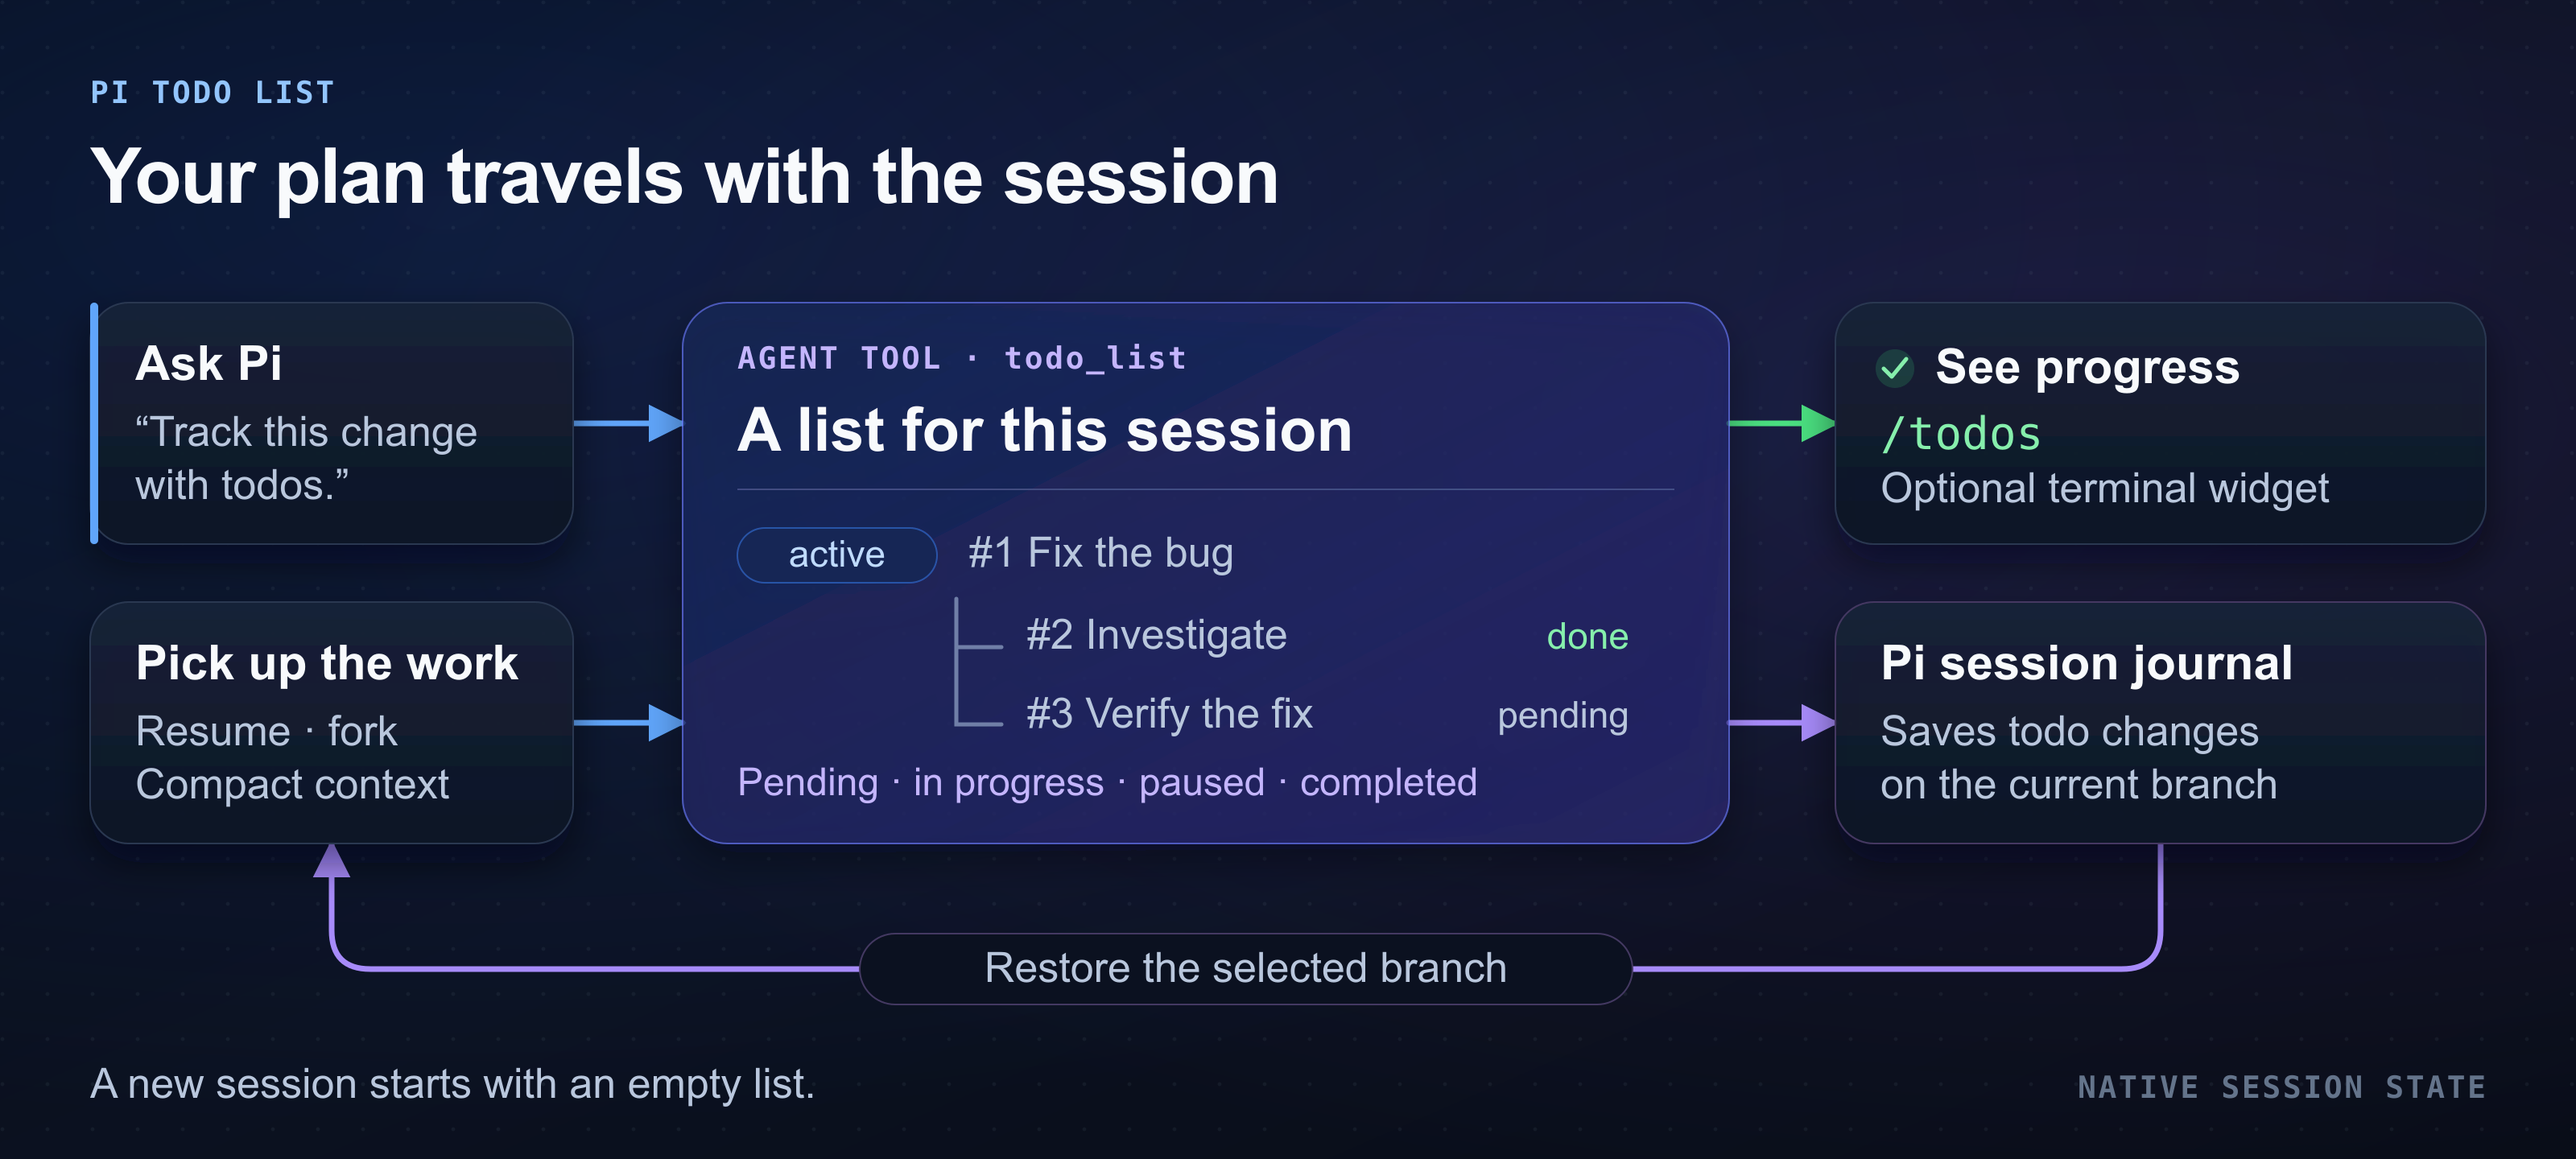
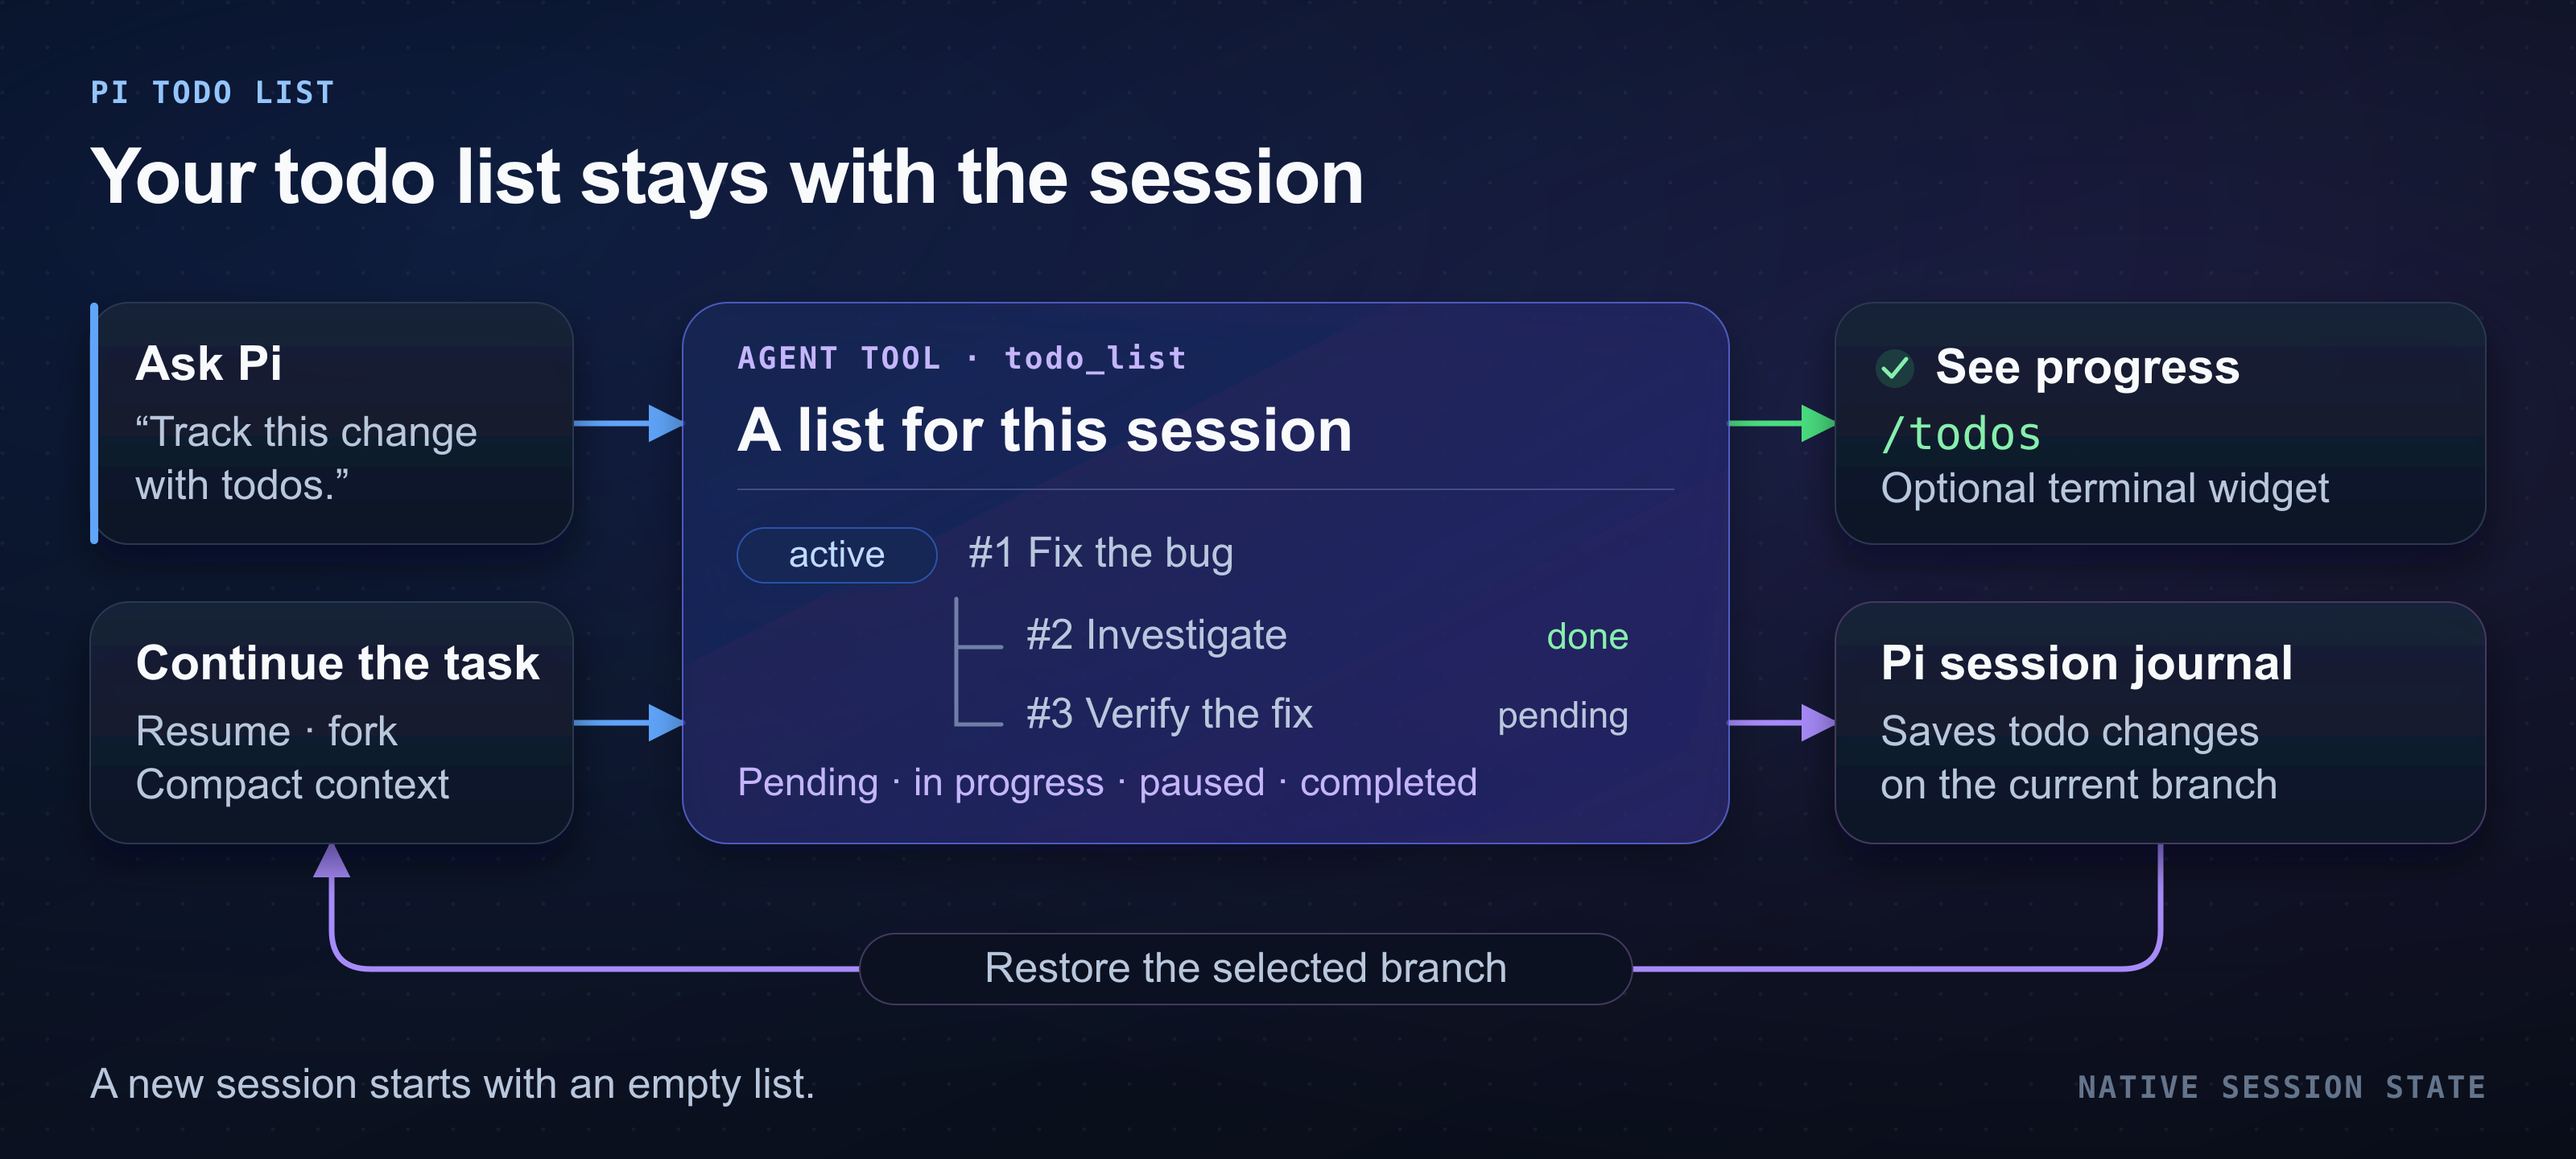
docs: simplify README instructions and descriptions (#44)

Changed region(s): [[0.0938, 0.125, 0.5312, 0.1875], [0.0312, 0.5625, 0.2188, 0.5938]]

diff --git a/README.md b/README.md
@@ -1,81 +1,77 @@
 # Pi Todo List
 
-Pi Todo List gives your [Pi](https://github.com/earendil-works/pi) agent a nested todo list for multi-step work. You can check what's left with `/todos` and return to the same list when you resume a session.
+Pi Todo List gives your [Pi](https://github.com/earendil-works/pi) agent a nested todo list. Use it to check task progress from the Pi terminal.
 
-![A request flows into a nested todo list in Pi. You can view it with /todos; changes are saved in Pi's session journal and restored when you resume, fork, or compact the session.](.github/readme/session-todos.png)
+![A Pi request updates a nested todo list. The /todos command shows the todo list. Pi saves changes in its session journal.](.github/readme/session-todos.png)
 
-*Your todo list is saved in Pi's session journal and restored with the session.*
+*Pi saves the todo list on the selected session branch.*
 
 ## Install and start
 
-You'll need Pi 1.0.0 or later (official releases or the maintained fork) and Node.js 24 or later.
+Use Pi 1.0.0 or later and Node.js 24 or later. Official Pi releases and the maintained fork both support this extension.
 
 ```bash
 pi install git:github.com/fitchmultz/pi-todo-list
 pi
 ```
 
-Ask Pi to use the list:
+Ask Pi to track a task:
 
-> Track this change with todos: investigate the bug, implement a fix, and verify it.
+> Use todo_list to track this task and its subtasks.
 
-Type `/todos` to see the open work or `/todos show` to keep a small progress widget visible. The [terminal controls](#check-progress) are below; the [tool reference](docs/reference.md) covers batches and other details.
+Type `/todos` to check progress. Read the [tool reference](docs/reference.md) for actions and batch examples.
 
-## Working with the list
+## Terminal controls
 
-Ask Pi to break a task into subtasks. Each item can be pending, in progress, paused, or completed. Pi updates them through its `todo_list` tool as it works.
-
-You can attach a URL or note/file path to an item without putting all the detail in its title. The list shows `[details]`; `/todos <id>` reveals the link. The extension stores the link without opening it.
-
-## Check progress
-
-These commands run in Pi's interactive terminal:
-
-| Command | What you see |
+| Command | Result |
 | --- | --- |
-| `/todos` | The first page of open items, plus status counts |
-| `/todos 3` | Item #3's status, parent, and detail link, even if completed |
-| `/todos all` | Open and completed items, up to 100 rows |
-| `/todos show` | A widget showing up to eight open items |
+| `/todos` | Open todo items and status counts, up to 100 rows |
+| `/todos 3` | Item #3's status, parent, and detail link, even when completed |
+| `/todos all` | Open and completed todo items, up to 100 rows |
+| `/todos show` | Show the widget, with up to eight open todo items |
 | `/todos hide` | Hide the widget |
-| `/todos toggle` | Switch the widget on or off |
+| `/todos toggle` | Switch widget visibility |
 
-The widget starts hidden. The footer shows active and pending counts, plus paused work when present. To start each Pi process with the widget visible:
+Pi hides the widget at startup. For open todo items, the footer shows active and pending counts. It also shows paused counts when present.
+
+Run Pi with this setting to show the widget at startup:
 
 ```bash
 PI_TODO_WIDGET=show pi
 ```
 
-To change an item, tell the agent what you want:
+Ask Pi to change a todo item:
 
 > Pause item #3 until the API credentials are available.
->
-> Reopen item #2 and its subtasks.
 
-The agent's ordinary list omits completed items. Use `/todos all` to find an old item's ID and include that ID in your request.
+Use `/todos all` to find a completed item's ID. Include that ID when you ask Pi to reopen it.
 
-## How the list stays with your work
+## Todo items and sessions
 
-Todos live in Pi's native session journal, on the selected branch. A new session starts with an empty list. Resuming a saved session brings its list back, and forking or navigating the session tree follows the branch you select. The list also survives context compaction, even when Pi discards all previous provider context.
+Each todo item can be pending, in progress, paused, or completed. Pi also completes or removes subtasks when you complete or remove their parent item.
 
-Completing or removing a parent affects all its descendants. Reopening it returns the whole subtree to pending. Starting, pausing, or reopening a child also reopens any completed ancestors. Completed work stays in the journal and can be looked up until you remove it or clear completed items; nothing is automatically deleted.
+A todo item can link to a URL or note/file path. The todo list shows `[details]`; `/todos <id>` shows the link. The extension does not open the link.
 
-Use extension version 0.10.3 or later for sessions written by 0.10.3. Older versions can stop at an unfamiliar journal entry and save an incomplete list. See [journal compatibility](docs/reference.md#journal-compatibility) before downgrading.
+Pi saves todo items in its native session journal. Pi restores them when you resume, fork, or select a session branch. Context compaction preserves the todo list. A new session starts with an empty todo list.
 
-If you see a corruption or persistence warning, inspect the list before retrying a change. A successful recovery read saves only the valid prefix of the history. You'll still need to reconcile missing tasks and ID gaps using the [recovery guide](docs/reference.md#manual-reconciliation-after-a-corruption-warning) before creating new work.
+## Warnings
 
-## Try it locally or contribute
+Older extension versions can save an incomplete todo list. Use version 0.10.3 or later when you open sessions from version 0.10.3. Read [journal compatibility](docs/reference.md#journal-compatibility) before a downgrade.
 
-From a checkout, load it for one invocation:
+Corrupt history can leave an incomplete todo list. Follow the [recovery guide](docs/reference.md#manual-reconciliation-after-a-corruption-warning) before you add todo items after a corruption warning.
+
+Pi can change the current branch before a save fails. Check the todo list before you retry a failed change.
+
+## Details and development
+
+From a checkout, load the extension for one Pi session:
 
 ```bash
 pi -e ./extensions/todo-list.ts
 ```
 
-Or install a local checkout with `pi install /absolute/path/to/pi-todo-list`.
-
-- [Tool and persistence reference](docs/reference.md): actions, batches, recovery, and journal formats
-- [Development guide](docs/development.md): setup, tests, and compatibility checks
+- [Tool reference](docs/reference.md): actions, batches, detail links, recovery, and journal formats
+- [Development guide](docs/development.md): local installation, tests, and compatibility checks
 - [Changelog](CHANGELOG.md): release history
 - [Issues](https://github.com/fitchmultz/pi-todo-list/issues): bugs and feature requests
 
